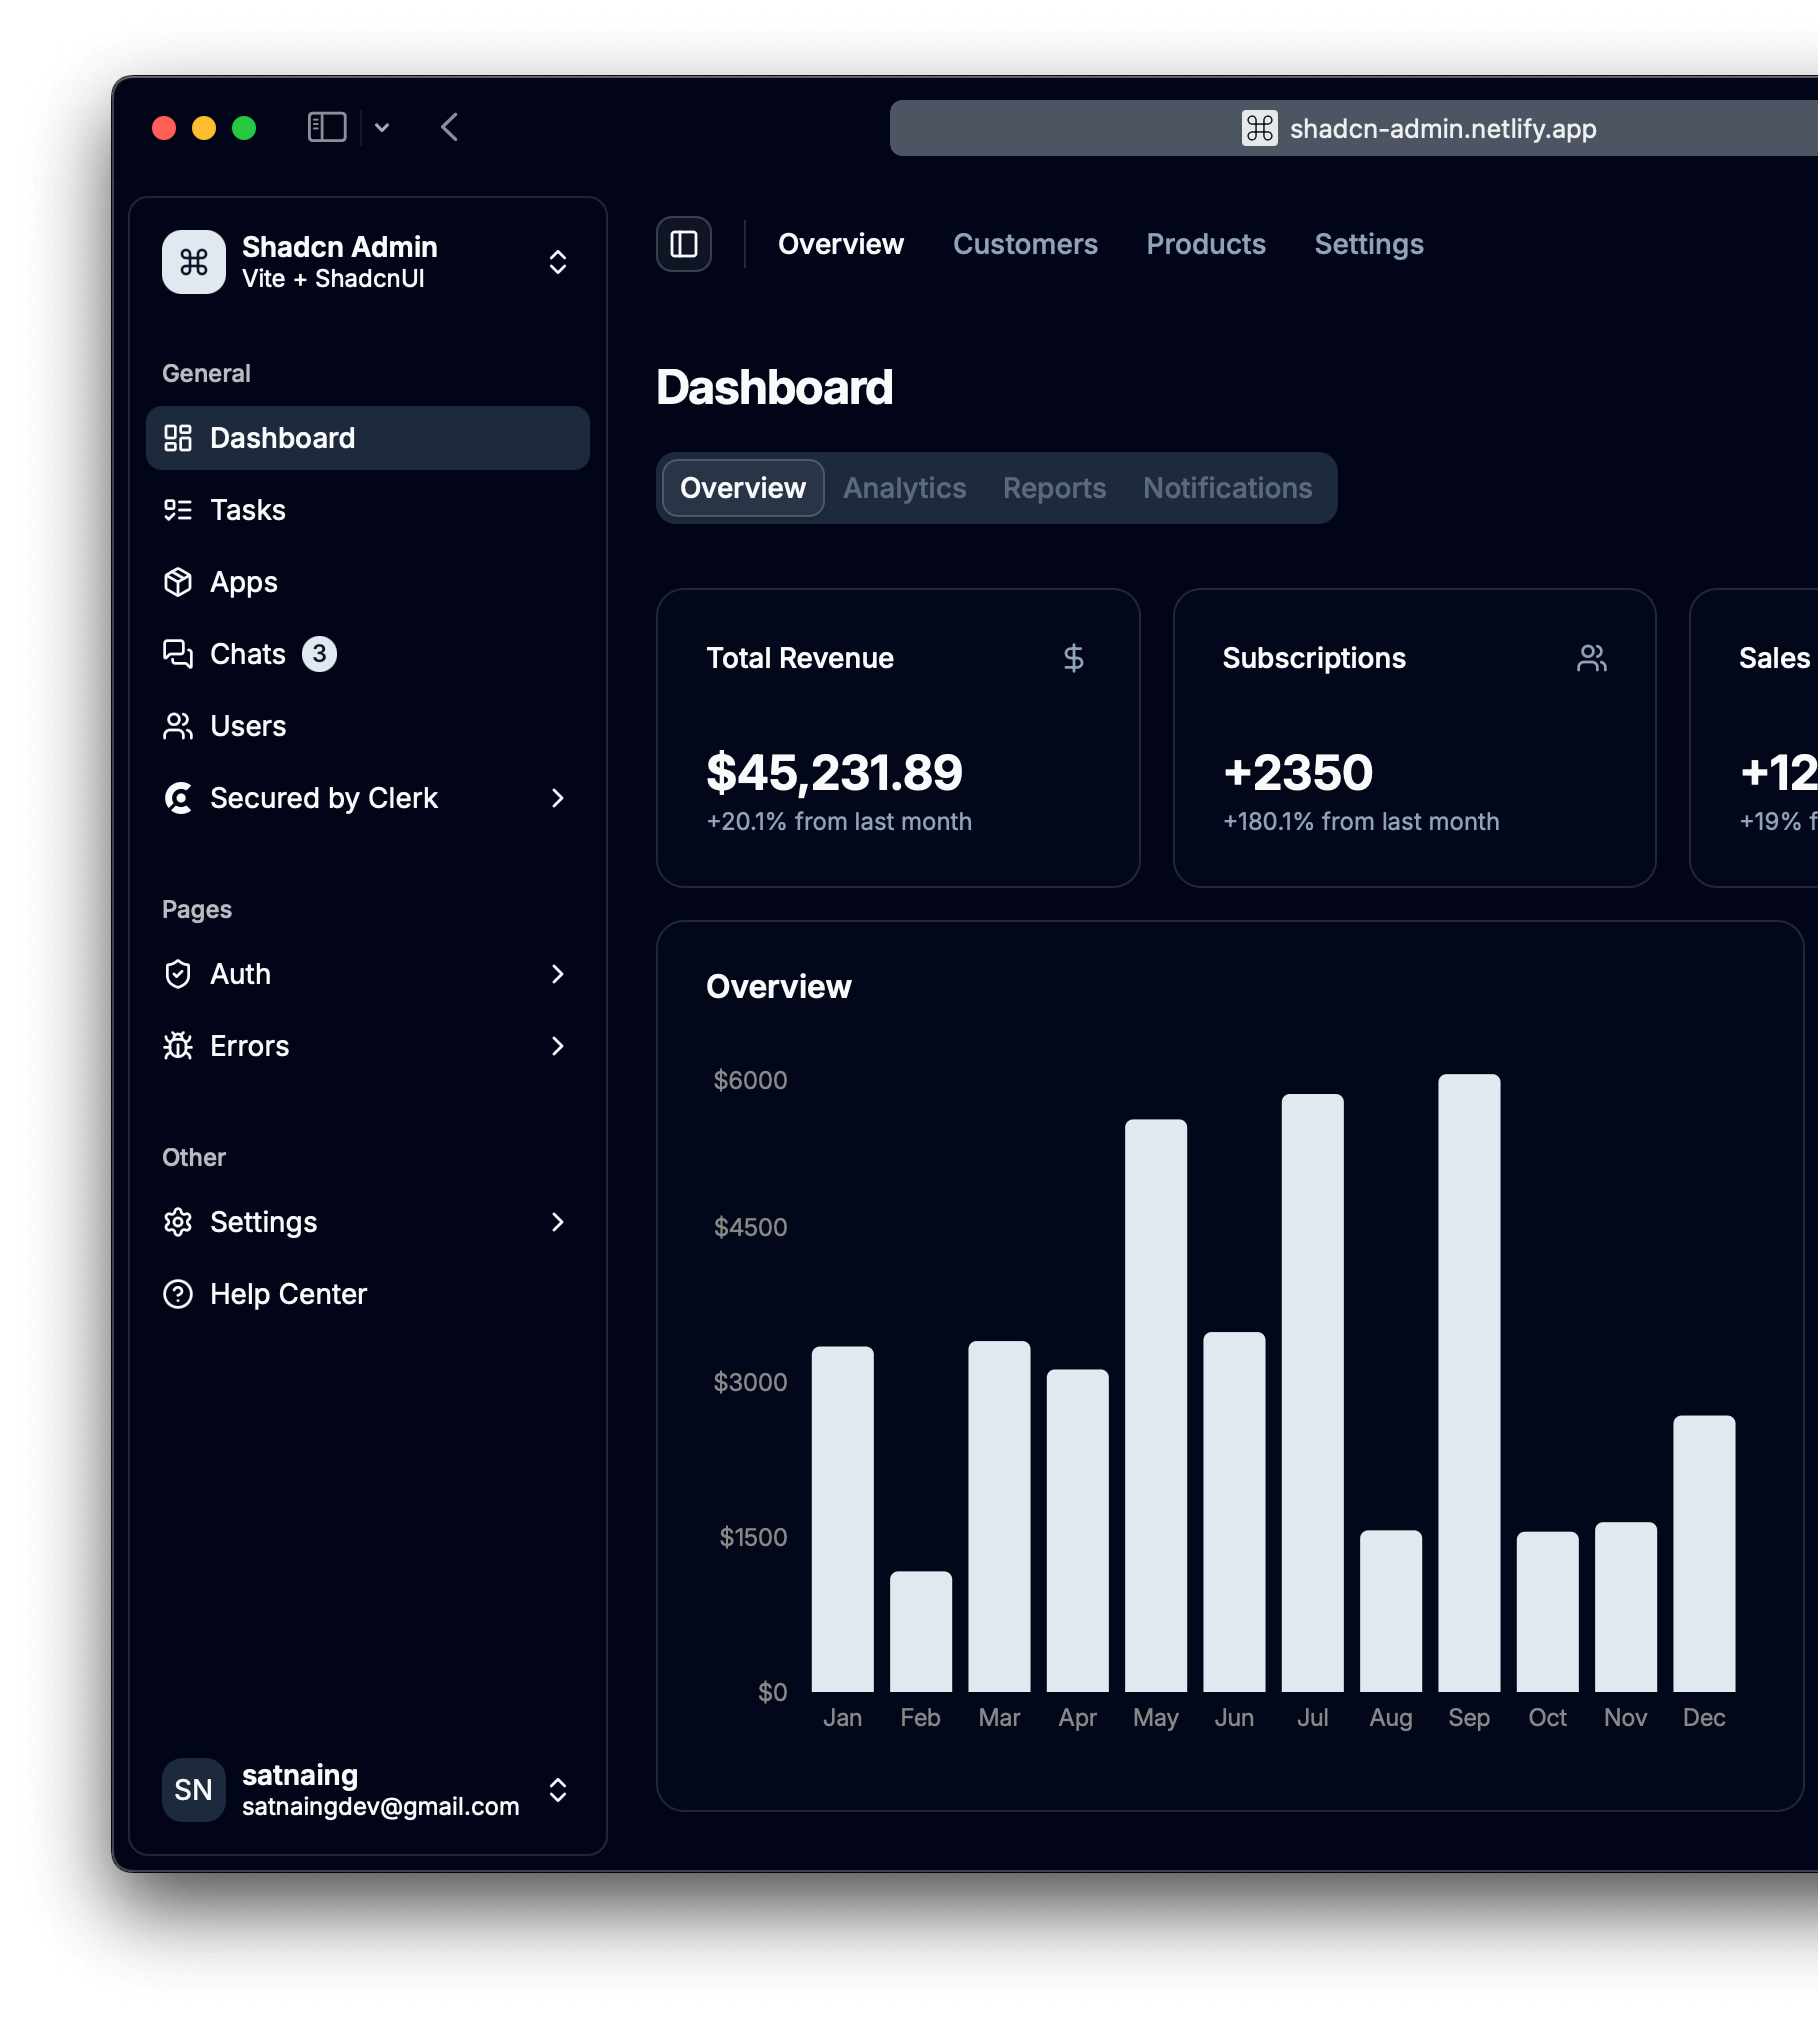
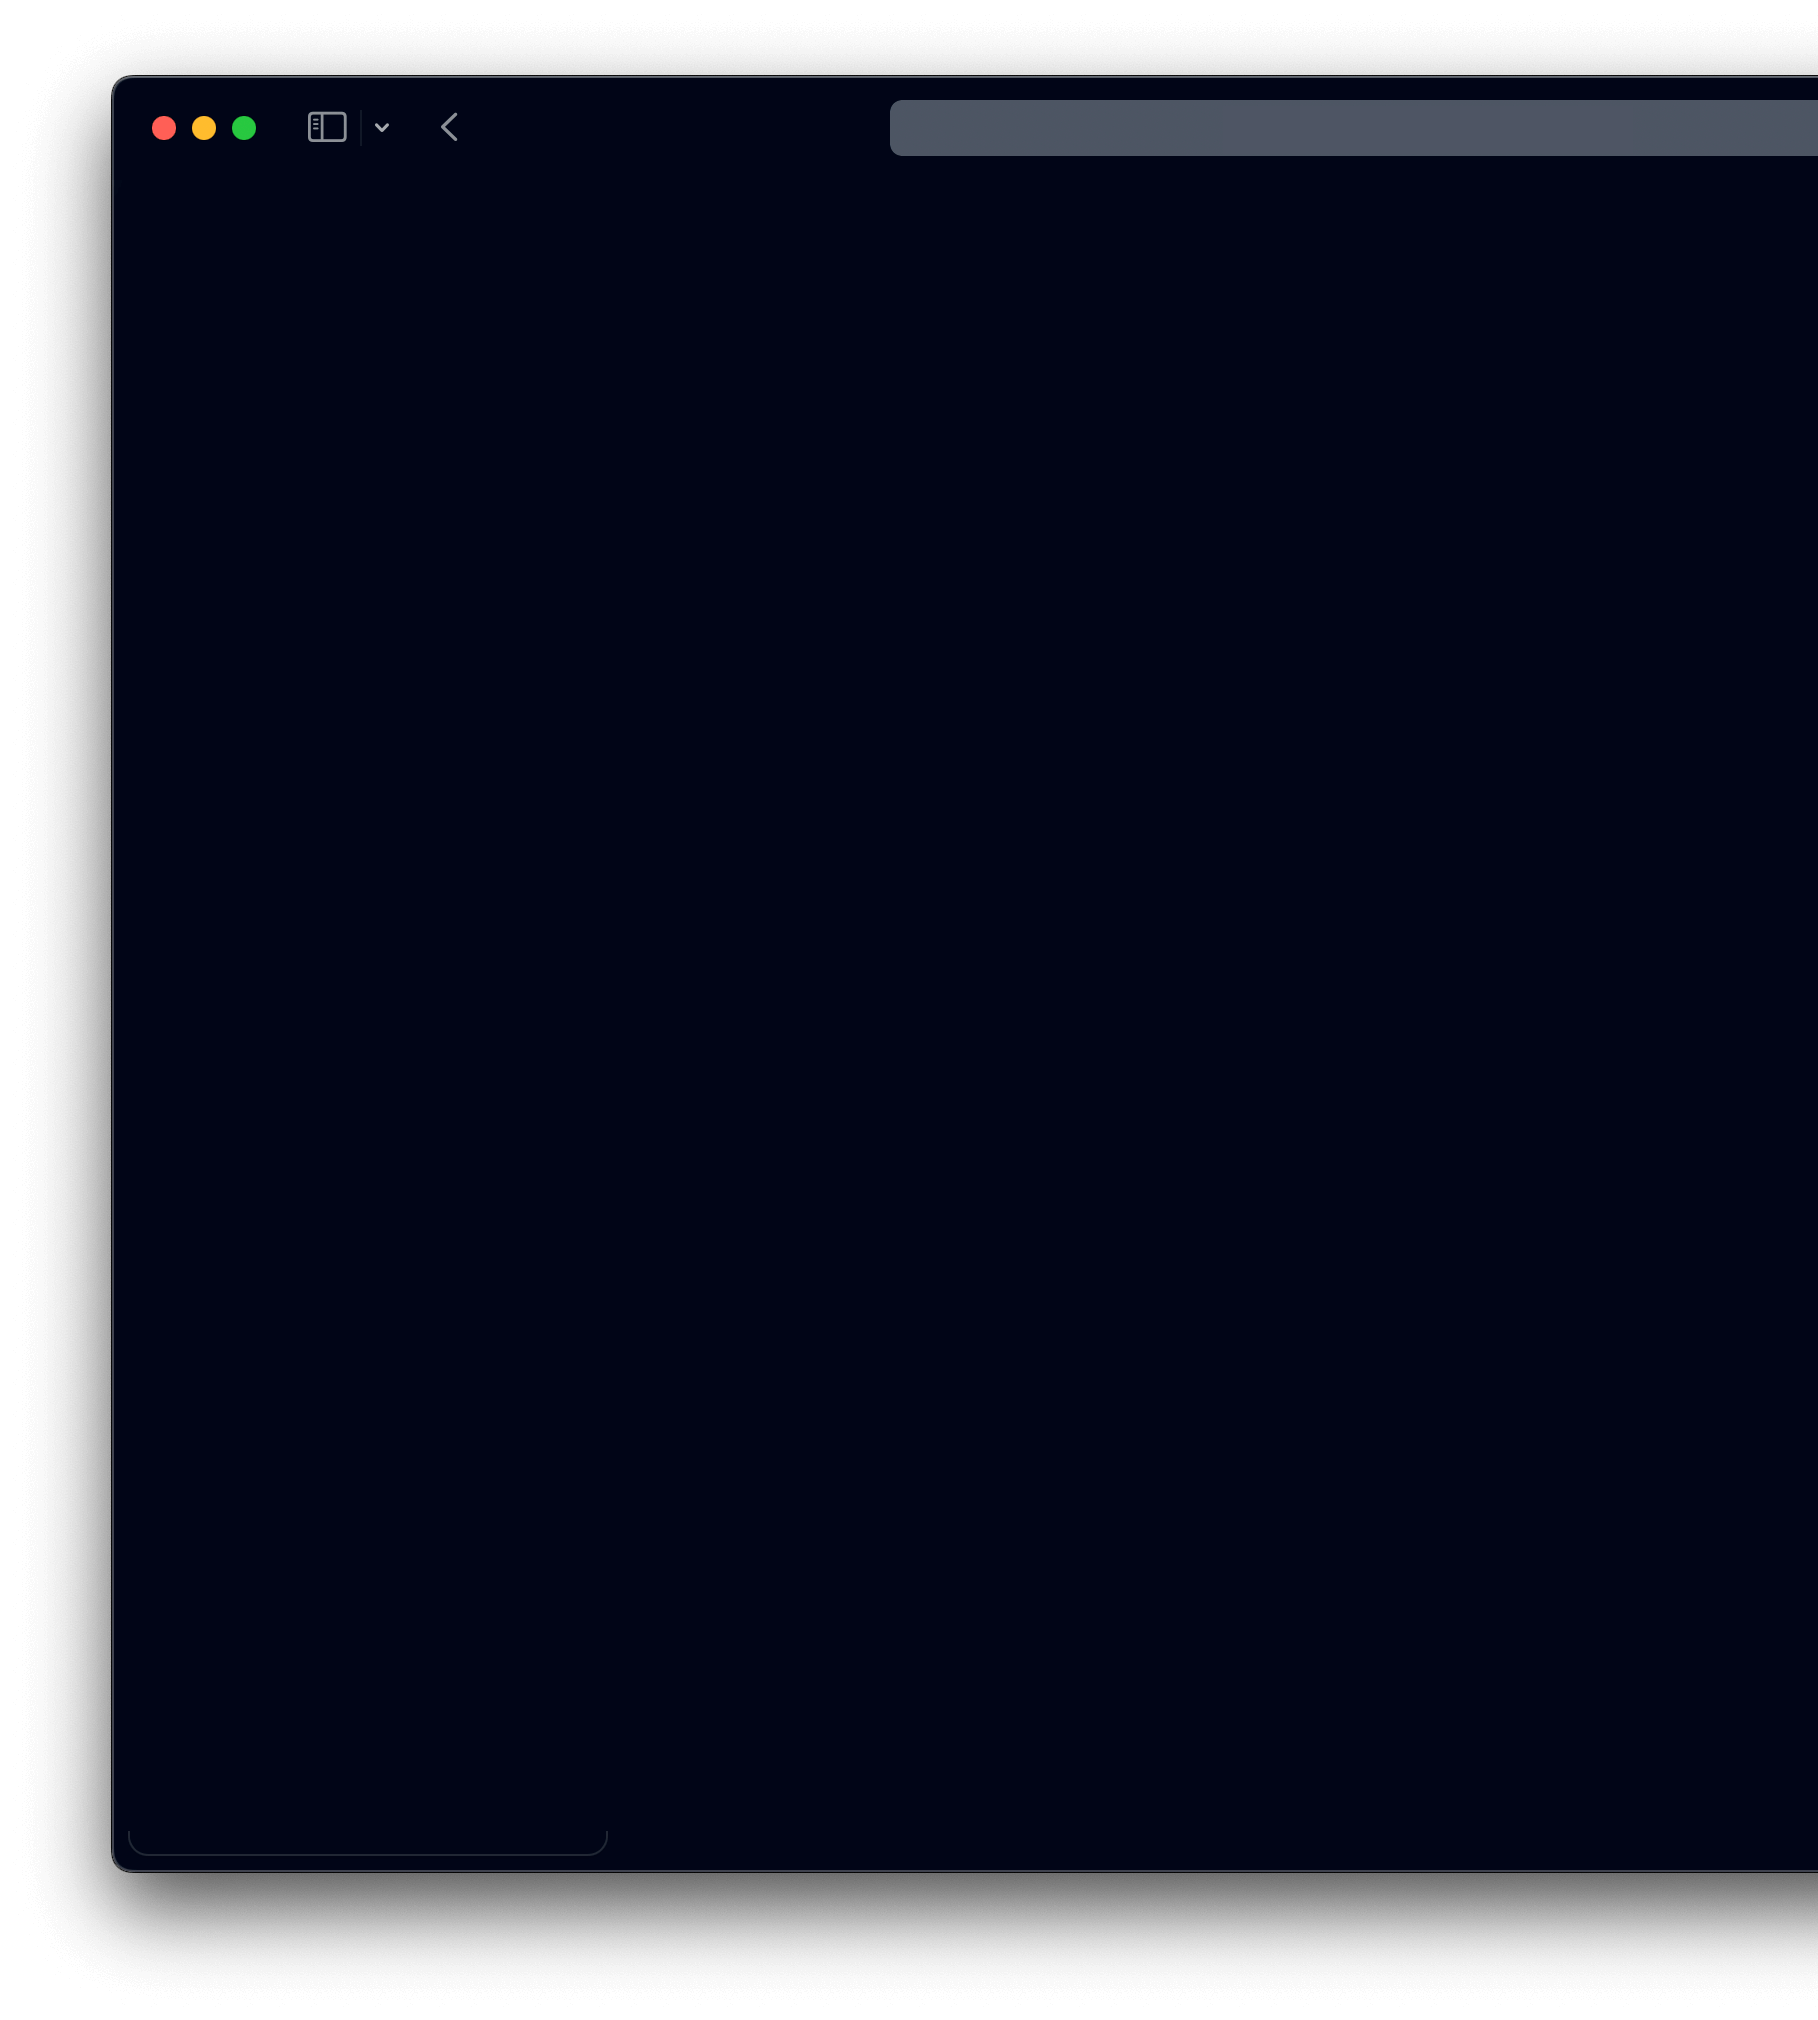
update sign

diff --git a/src/features/auth/sign-in/components/user-auth-form.tsx b/src/features/auth/sign-in/components/user-auth-form.tsx
@@ -5,7 +5,6 @@ import { zodResolver } from '@hookform/resolvers/zod'
 import { Link, useNavigate } from '@tanstack/react-router'
 import { Loader2, LogIn } from 'lucide-react'
 import { toast } from 'sonner'
-import { IconFacebook, IconGithub } from '@/assets/brand-icons'
 import { useAuthStore } from '@/stores/auth-store'
 import { sleep, cn } from '@/lib/utils'
 import { Button } from '@/components/ui/button'
@@ -22,12 +21,12 @@ import { PasswordInput } from '@/components/password-input'
 
 const formSchema = z.object({
   email: z.email({
-    error: (iss) => (iss.input === '' ? 'Please enter your email' : undefined),
+    error: (iss) => (iss.input === '' ? 'Informe seu e-mail' : undefined),
   }),
   password: z
     .string()
-    .min(1, 'Please enter your password')
-    .min(7, 'Password must be at least 7 characters long'),
+    .min(1, 'Informe sua senha')
+    .min(7, 'A senha deve ter no mínimo 7 caracteres'),
 })
 
 interface UserAuthFormProps extends React.HTMLAttributes<HTMLFormElement> {
@@ -55,29 +54,29 @@ export function UserAuthForm({
     setIsLoading(true)
 
     toast.promise(sleep(2000), {
-      loading: 'Signing in...',
+      loading: 'Entrando...',
       success: () => {
         setIsLoading(false)
 
-        // Mock successful authentication with expiry computed at success time
+        // Mock de autenticação bem-sucedida
         const mockUser = {
           accountNo: 'ACC001',
           email: data.email,
           role: ['user'],
-          exp: Date.now() + 24 * 60 * 60 * 1000, // 24 hours from now
+          exp: Date.now() + 24 * 60 * 60 * 1000, // 24 horas a partir de agora
         }
 
-        // Set user and access token
+        // Define usuário e token de acesso
         auth.setUser(mockUser)
         auth.setAccessToken('mock-access-token')
 
-        // Redirect to the stored location or default to dashboard
+        // Redireciona para a rota armazenada ou dashboard
         const targetPath = redirectTo || '/'
         navigate({ to: targetPath, replace: true })
 
-        return `Welcome back, ${data.email}!`
+        return `Bem-vindo de volta, ${data.email}!`
       },
-      error: 'Error',
+      error: 'Erro ao entrar',
     })
   }
 
@@ -93,20 +92,21 @@ export function UserAuthForm({
           name='email'
           render={({ field }) => (
             <FormItem>
-              <FormLabel>Email</FormLabel>
+              <FormLabel>E-mail</FormLabel>
               <FormControl>
-                <Input placeholder='name@example.com' {...field} />
+                <Input placeholder='nome@exemplo.com' {...field} />
               </FormControl>
               <FormMessage />
             </FormItem>
           )}
         />
+
         <FormField
           control={form.control}
           name='password'
           render={({ field }) => (
             <FormItem className='relative'>
-              <FormLabel>Password</FormLabel>
+              <FormLabel>Senha</FormLabel>
               <FormControl>
                 <PasswordInput placeholder='********' {...field} />
               </FormControl>
@@ -115,35 +115,16 @@ export function UserAuthForm({
                 to='/forgot-password'
                 className='absolute end-0 -top-0.5 text-sm font-medium text-muted-foreground hover:opacity-75'
               >
-                Forgot password?
+                Esqueceu a senha?
               </Link>
             </FormItem>
           )}
         />
+
         <Button className='mt-2' disabled={isLoading}>
           {isLoading ? <Loader2 className='animate-spin' /> : <LogIn />}
-          Sign in
+          Entrar
         </Button>
-
-        <div className='relative my-2'>
-          <div className='absolute inset-0 flex items-center'>
-            <span className='w-full border-t' />
-          </div>
-          <div className='relative flex justify-center text-xs uppercase'>
-            <span className='bg-background px-2 text-muted-foreground'>
-              Or continue with
-            </span>
-          </div>
-        </div>
-
-        <div className='grid grid-cols-2 gap-2'>
-          <Button variant='outline' type='button' disabled={isLoading}>
-            <IconGithub className='h-4 w-4' /> GitHub
-          </Button>
-          <Button variant='outline' type='button' disabled={isLoading}>
-            <IconFacebook className='h-4 w-4' /> Facebook
-          </Button>
-        </div>
       </form>
     </Form>
   )

diff --git a/src/features/auth/sign-in/sign-in-2.tsx b/src/features/auth/sign-in/sign-in-2.tsx
@@ -11,32 +11,32 @@ export function SignIn2() {
         <div className='mx-auto flex w-full flex-col justify-center space-y-2 py-8 sm:w-[480px] sm:p-8'>
           <div className='mb-4 flex items-center justify-center'>
             <Logo className='me-2' />
-            <h1 className='text-xl font-medium'>Shadcn Admin</h1>
+            <h1 className='text-xl font-medium'>Nobody Admin</h1>
           </div>
         </div>
         <div className='mx-auto flex w-full max-w-sm flex-col justify-center space-y-2'>
           <div className='flex flex-col space-y-2 text-start'>
-            <h2 className='text-lg font-semibold tracking-tight'>Sign in</h2>
+            <h2 className='text-lg font-semibold tracking-tight'>Entrar</h2>
             <p className='text-sm text-muted-foreground'>
-              Enter your email and password below <br />
-              to log into your account
+              Informe seu e-mail e senha abaixo <br />
+              para acessar sua conta
             </p>
           </div>
           <UserAuthForm />
           <p className='px-8 text-center text-sm text-muted-foreground'>
-            By clicking sign in, you agree to our{' '}
+            Ao clicar em entrar, você concorda com nossos{' '}
             <a
               href='/terms'
               className='underline underline-offset-4 hover:text-primary'
             >
-              Terms of Service
+              Termos de Serviço
             </a>{' '}
-            and{' '}
+            e{' '}
             <a
               href='/privacy'
               className='underline underline-offset-4 hover:text-primary'
             >
-              Privacy Policy
+              Política de Privacidade
             </a>
             .
           </p>
@@ -54,14 +54,14 @@ export function SignIn2() {
           className='dark:hidden'
           width={1024}
           height={1151}
-          alt='Shadcn-Admin'
+          alt='Painel administrativo'
         />
         <img
           src={dashboardDark}
           className='hidden dark:block'
           width={1024}
           height={1138}
-          alt='Shadcn-Admin'
+          alt='Painel administrativo'
         />
       </div>
     </div>

diff --git a/src/features/auth/sign-in/index.tsx b/src/features/auth/sign-in/index.tsx
@@ -17,10 +17,10 @@ export function SignIn() {
     <AuthLayout>
       <Card className='gap-4'>
         <CardHeader>
-          <CardTitle className='text-lg tracking-tight'>Sign in</CardTitle>
+          <CardTitle className='text-lg tracking-tight'>Entrar</CardTitle>
           <CardDescription>
-            Enter your email and password below to <br />
-            log into your account
+            Informe seu e-mail e senha abaixo para <br />
+            acessar sua conta
           </CardDescription>
         </CardHeader>
         <CardContent>
@@ -28,19 +28,19 @@ export function SignIn() {
         </CardContent>
         <CardFooter>
           <p className='px-8 text-center text-sm text-muted-foreground'>
-            By clicking sign in, you agree to our{' '}
+            Ao clicar em entrar, você concorda com nossos{' '}
             <a
               href='/terms'
               className='underline underline-offset-4 hover:text-primary'
             >
-              Terms of Service
+              Termos de Serviço
             </a>{' '}
-            and{' '}
+            e{' '}
             <a
               href='/privacy'
               className='underline underline-offset-4 hover:text-primary'
             >
-              Privacy Policy
+              Política de Privacidade
             </a>
             .
           </p>

diff --git a/src/routes/clerk/(auth)/route.tsx b/src/routes/clerk/(auth)/route.tsx
@@ -7,7 +7,6 @@ export const Route = createFileRoute('/clerk/(auth)')({
   component: ClerkAuthLayout,
 })
 
-// eslint-disable-next-line react-refresh/only-export-components
 function ClerkAuthLayout() {
   return (
     <div className='relative container grid h-svh flex-col items-center justify-center lg:max-w-none lg:grid-cols-2 lg:px-0'>
@@ -18,7 +17,7 @@ function ClerkAuthLayout() {
           className='relative z-20 flex items-center text-lg font-medium'
         >
           <Logo className='me-2' />
-          Shadcn Admin
+          Nobody Admin
         </Link>
 
         <ClerkFullLogo className='relative m-auto size-96' />

diff --git a/src/features/auth/auth-layout.tsx b/src/features/auth/auth-layout.tsx
@@ -10,7 +10,7 @@ export function AuthLayout({ children }: AuthLayoutProps) {
       <div className='mx-auto flex w-full flex-col justify-center space-y-2 py-8 sm:w-[480px] sm:p-8'>
         <div className='mb-4 flex items-center justify-center'>
           <Logo className='me-2' />
-          <h1 className='text-xl font-medium'>Shadcn Admin</h1>
+          <h1 className='text-xl font-medium'>Nobody Admin</h1>
         </div>
         {children}
       </div>

diff --git a/src/stores/auth-store.ts b/src/stores/auth-store.ts
@@ -1,7 +1,7 @@
 import { create } from 'zustand'
 import { getCookie, setCookie, removeCookie } from '@/lib/cookies'
 
-const ACCESS_TOKEN = 'thisisjustarandomstring-'
+const ACCESS_TOKEN = ''
 
 interface AuthUser {
   accountNo: string

diff --git a/src/components/layout/data/sidebar-data.ts b/src/components/layout/data/sidebar-data.ts
@@ -18,7 +18,7 @@ export const sidebarData: SidebarData = {
   },
   teams: [
     {
-      name: 'Shadcn Admin',
+      name: 'Nobody Admin',
       logo: Command,
       plan: 'Vite + ShadcnUI',
     },
